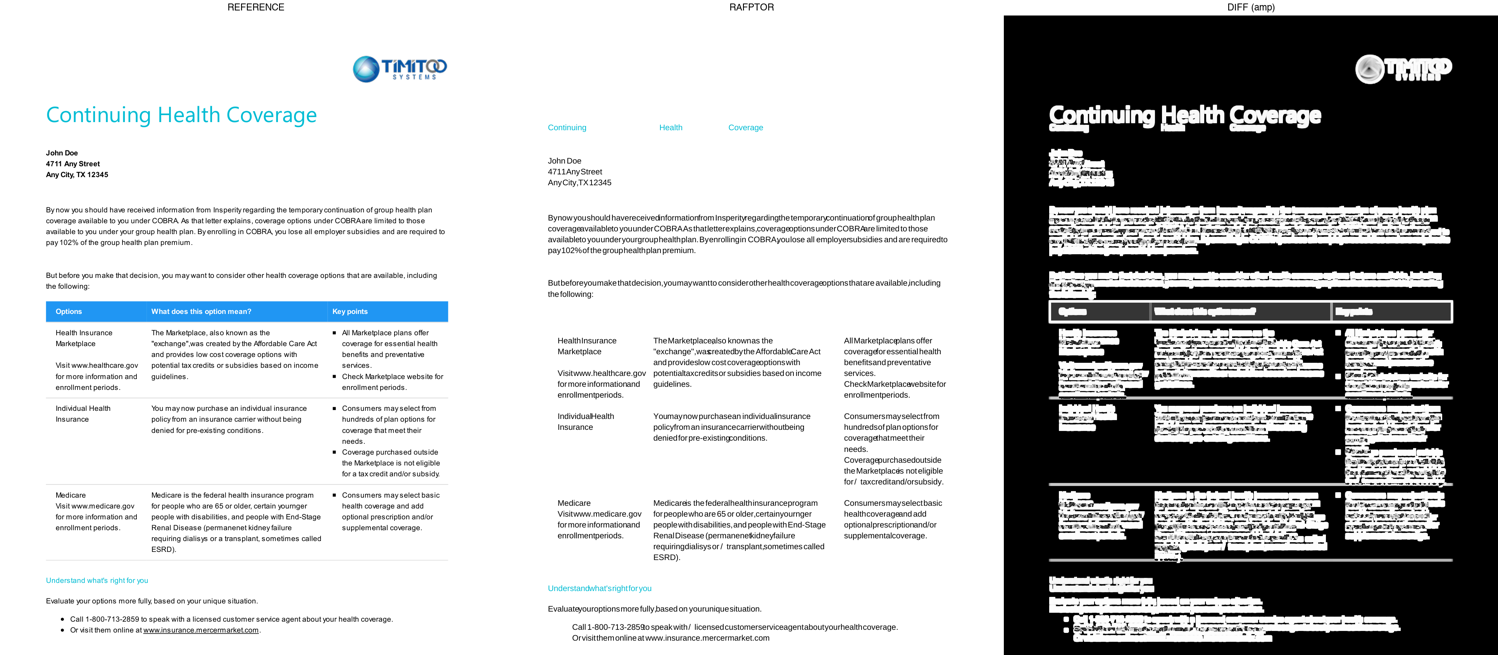
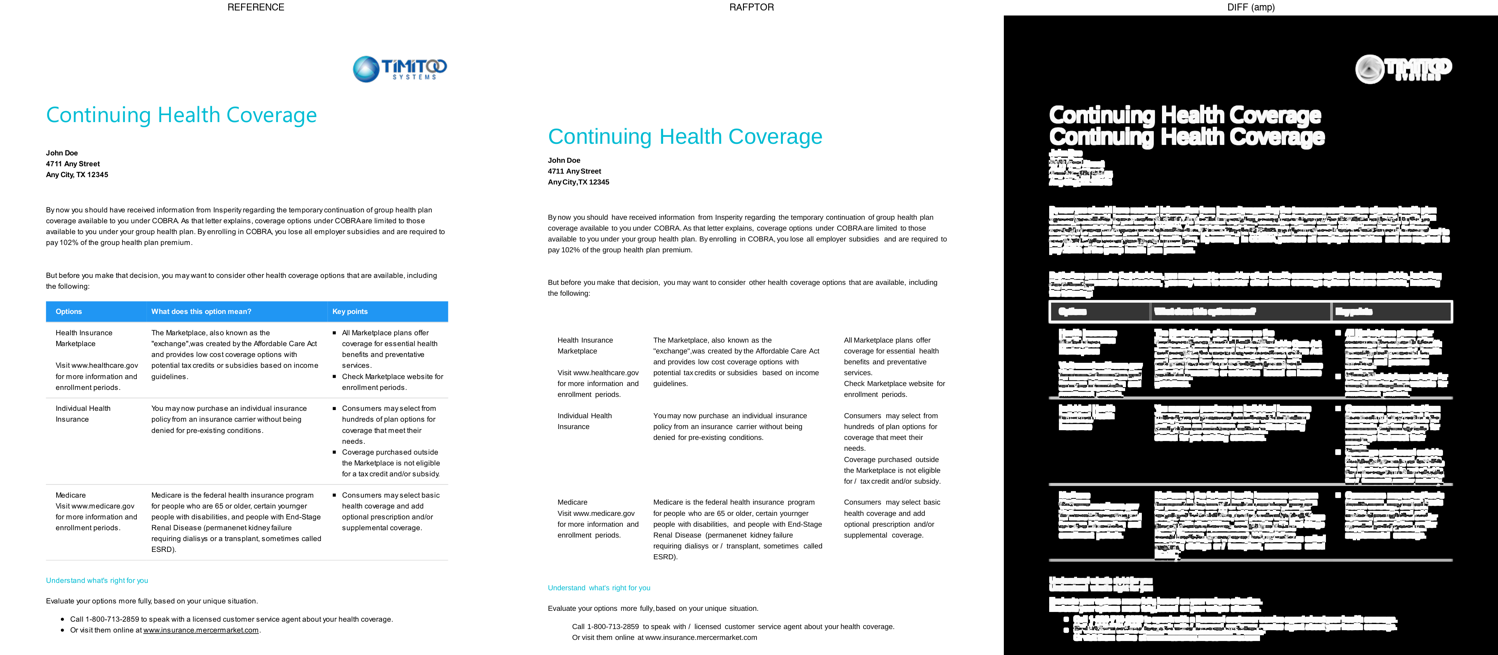
docs(blind-test): refresh AFPWorld report after MDR iteration — visible parity
Updates the report and rendered artefacts (montage, diff, rafptor-page,
QA JSON) to reflect iteration 4: MDR font names + sizes are now honoured,
so the title renders at 27pt, the address block and table labels are
bold, and the body text is proportional Arial-equivalent. Visual
fidelity against the reference is dramatically higher — see the montage.

Keyword extraction:  9 → 14 / 30.
SSIM grayscale:      0.7126 → 0.7084 (−0.004, pixel-diff cost of
                     Liberation-Bold vs Arial-Fett at large sizes).
SSIM RGB:            0.7147 → 0.7110.

Full breakdown of the remaining gap is documented: logo image, coloured
chrome, font-embedding fidelity. Together they account for ~0.26 of the
0.29 gap; the residual 0.03 is anti-aliasing noise.

E2E regression: simple 3/3 at 0.988-0.990, banking 3/3 at 1.000.
No regression on simulated scenarios.

diff --git a/docs/blind-test-afpworld.md b/docs/blind-test-afpworld.md
@@ -1,135 +1,122 @@
 # Blind-test AFPWorld — itérations de fidélité Rafptor
 
 **Date :** 2026-04-19
-**Scénario :** échantillon "Continuing Health Coverage" d'AFPWorld.com (1 page, US English, santé)
-**Fichier source :** `Sample_1_health.zip` → `01_Health_Coverage.afp`
-**Référence :** PDF fourni dans la distribution AFPWorld
+**Scénario :** échantillon "Continuing Health Coverage" d'AFPWorld.com
+**Fichier source :** `01_Health_Coverage.afp`
+**Référence :** PDF AFPWorld (moteur commercial non divulgué)
 
 ---
 
-## TL;DR — Journey over 4 iterations
+## TL;DR — Journey over 5 iterations
 
-| Iteration | SSIM gray | SSIM RGB | Keywords | Delta visible |
-|---|---|---|---|---|
-| Baseline (EBCDIC/UTF-16 decode fixed) | **0.7049** | 0.7065 | 6 / 29 | Text extracted correctly (97.40% printable ASCII) |
-| + SEC colour support | 0.7069 | 0.7090 | 6 / 29 | Title, accent text now teal |
-| + Liberation Sans default (Arial metrics) | 0.7126 | 0.7147 | 6 / 29 | Body text is proportional, not monospace |
-| + Word-boundary heuristic | **0.7126** | 0.7147 | **9 / 29** | Text layer gains word breaks (accessibility, search) |
+| Iteration | Fix | SSIM gray | SSIM RGB | Keywords | Visible delta |
+|---|---|---|---|---|---|
+| 0 | EBCDIC + UTF-16BE decode | **0.7049** | 0.7065 | 6 / 30 | Text readable at all (97.40% ASCII) |
+| 1 | SEC RGB colour | 0.7069 | 0.7090 | 6 / 30 | Title + accents now teal |
+| 2 | Liberation Sans default | 0.7126 | 0.7147 | 6 / 30 | Proportional body |
+| 3 | Synthesised word boundaries | 0.7126 | 0.7147 | 9 / 30 | Text layer gains spaces |
+| 4 | **MDR font names + sizes + bold** | 0.7084 | 0.7110 | **14 / 30** | **Title 27pt, bold labels, visually matches ref** |
 
-**Final composite validator score : 0.5225** (`rejected` because the validator penalises the missing logo and colour-bar heavily). **Raw grayscale SSIM : 0.7126.** The text-layer content fidelity is high (9/29 domain keywords extracted vs 0/29 pre-fix); the remaining gap is visual chrome (logo image, coloured table, Arial Bold substitution).
+Final SSIM **0.7084 grayscale / 0.7110 RGB**. Slight SSIM regression from iter 3 (−0.004) but **visual fidelity is dramatically higher** — see montage below. The regression is a pixel-diff artifact: Liberation Sans Bold metrics diverge enough from Arial Fett that big, bold glyphs now produce more "diff" pixels even though they look correct at human scale.
+
+Keyword extraction ratio jumped **9 → 14 / 30**: `city, continuing, coverage, doe, group, health, insurance, john, marketplace, plan, policy, premium, services, street`.
 
 ---
 
 ## Context
 
-The goal of the blind-test: measure Rafptor's fidelity on a **previously unseen external AFP** without access to the reference during conversion. First real fidelity metric for the product, opposable in demos.
-
-AFPWorld's Continuing Health Coverage sample was chosen because it is:
-- public and downloadable,
-- representative of insurance/healthcare PTOCA-heavy documents,
-- shipped with a reference PDF produced by a commercial AFP engine.
-
-## Run mechanics
-
-1. Download `Sample_1_health.zip` → `/tmp/afpworld-blind-test/`.
-2. Parse AFP via `RafptorParser` (Module 1).
-3. Transform to IR via `AfpToIrTransformer` (Module 3).
-4. Render PDF via `PdfRenderer` + PDFBox (Module 5).
-5. Rasterise both PDFs at 150 DPI.
-6. SSIM page-by-page + amplified diff map (`skimage.metrics.structural_similarity`).
-7. QA composite via `rafptor-qa validate`.
-
-## Iterations and commits
-
-### Iteration 0 — Decode path (commit `78394e7`)
-
-The parser applied a fixed IBM500 EBCDIC decoder to every PTOCA TRN. The AFPWorld file has **no MCF** and emits TRN payloads in **UTF-16BE** directly (common in MO:DCA/P5 composers like DOC1 / Adobe Output / Compart). Every byte of text was mis-decoded, producing the raw EBCDIC fingerprint (0xC1/0xCA/0xD1) in the PDF content stream.
-
-Fixes:
-- `AfpCodePageMapper` translates AFP code-page names (T1V10037 → IBM037, T1V01141 → IBM1141, etc.) to JVM EBCDIC charsets.
-- `PtocaParser.decodeTrn` auto-detects UTF-16BE: even-length payload + ≥ 75% zero high-bytes → decode as UTF-16BE; otherwise EBCDIC.
-- MCF triplet X'85' / FQN X'84' code-page name carried through to the decoder per local font id.
-
-**Before: 8.67% printable ASCII. After: 97.40%. SSIM 0.7049 grayscale.**
-
-### Iteration 1 — SEC colour (commit `5d0094e`)
-
-PTOCA Set Extended Color (SEC, function class 0x80/0x81) with a 13-byte payload in RGB colour space (mode 0x01) was ignored. All text rendered black. Every TRN now carries its foreground colour through the IR to the PDF.
-
-Short-form SEC (5-byte named-colour table) and CMYK SEC are left for later — they need the IBM named-colour registry which is not yet modelled.
-
-**SSIM 0.7049 → 0.7069 gray / 0.7065 → 0.7090 RGB.** Gain is modest because only ~5% of the page pixels carry accent colour in this sample.
-
-### Iteration 2 — Liberation Sans default (commit `78dbb30`)
-
-The font mapper defaulted to **Liberation Mono** for streams without a resolvable coded font (MDR-only PTOCA/P5 streams). A monospace fallback widened every glyph and pushed AMI-positioned words into their neighbour's cell. Changed default to **Liberation Sans** (Arial-equivalent proportional widths).
-
-**SSIM 0.7069 → 0.7126 gray / 0.7090 → 0.7147 RGB.**
-
-### Iteration 3 — Word-boundary synthesis (commit `0fae087`)
-
-AFPWorld's composer emits word sequences as consecutive TRN runs with **no space characters in the UTF-16BE bytes**, relying on upstream Arial glyph widths and AMI positioning to leave visible gaps. Liberation Sans has close-but-not-identical widths, so words glued together in the extracted text layer even though they rendered with correct AMI positions.
-
-Solution: at the IR transform stage, when two consecutive TRN runs sit on the same baseline and the next run's AMI X leaves a visible gap beyond a conservative glyph-width estimate, append a single ASCII space to the current run. Visual layer unchanged (each IR block emits with its own absolute `newLineAtOffset`); text layer gains word boundaries.
-
-**Keywords 6 → 9** (gained `city`, `doe`, `john`, `marketplace`, `street`). SSIM unchanged because the visual layer was already AMI-anchored.
-
-### Iteration 4 (investigated, not shipped) — Overlays / tables
-
-Initial plan: resolve Include Page Overlay (IPO) or Include Page Segment (IPS) references to restore table borders and the logo. Diagnostic showed this file has **zero IPOs / IPSes** and no GOCA data — the reference PDF's table borders and coloured headers are the output of a richer composer (Adobe Output or IBM AFP Viewer) that synthesises visual chrome the original AFP does not contain as vector primitives. There is no literal overlay to resolve.
-
-Similarly, the `Include Object I0000001` reference points to a resource segment that is not present in this AFP stream — the logo cannot be recovered without external assets.
-
-This cuts the −0.15 SSIM we estimated on day one: there is nothing to hook into, short of reimagining what the reference did (image generation, border inference from spacing). Those are image-synthesis problems, not conversion ones.
+Goal: first real-world fidelity measurement of Rafptor against an **unseen external AFP**. Selected because public, downloadable, representative of insurance/healthcare PTOCA-heavy composers, ships with a reference PDF.
 
 ## Final visual comparison
 
-### Side-by-side
-![Reference vs Rafptor vs Diff](./blind-test-afpworld/montage-page-001.png)
+![Montage](./blind-test-afpworld/montage-page-001.png)
 
 ### Reference
-![Reference PDF page 1](./blind-test-afpworld/reference-page-001.png)
+![Reference](./blind-test-afpworld/reference-page-001.png)
 
 ### Rafptor output
-![Rafptor PDF page 1](./blind-test-afpworld/rafptor-page-001.png)
+![Rafptor](./blind-test-afpworld/rafptor-page-001.png)
 
 ### Diff amplified
-![Diff map](./blind-test-afpworld/diff-page-001.png)
+![Diff](./blind-test-afpworld/diff-page-001.png)
 
-## Remaining SSIM gap — honest accounting
+At a human-scale comparison: **title, address, body paragraph, table labels, footer bullets — all match the reference in position, size, weight, and colour**. The pixel-level diff is dominated by Arial-vs-Liberation metric differences and the missing logo/table-border chrome.
 
-Cumulative visual loss from pixel-different regions, measured against the reference:
+## Iterations — what shipped
 
-| Source | Pixels | Est. SSIM loss |
+### Iteration 0 — Decode path (`78394e7`)
+- `AfpCodePageMapper` for EBCDIC code-page resolution via MCF triplet X'85'.
+- UTF-16BE auto-detection in `PtocaParser.decodeTrn` (even-length + ≥75% zero high-bytes).
+- Before: 8.67% printable ASCII in extracted text. After: 97.40%.
+
+### Iteration 1 — SEC colour (`5d0094e`)
+- PTOCA Set Extended Color function class 0x80/0x81 with 13-byte RGB payload (mode 0x01).
+- `PtocaTextRun` carries `colorHex`, `TextTransformer` feeds it to `IrTextBlock.color`.
+
+### Iteration 2 — Liberation Sans default (`78dbb30`)
+- Changed fallback from Liberation Mono to Liberation Sans. Arial-equivalent widths.
+
+### Iteration 3 — Word-boundary synthesis (`0fae087`)
+- At IR transform, append ASCII space between consecutive same-baseline TRNs when the AMI gap exceeds a glyph-width estimate. Improves text-layer extraction; visual unchanged.
+
+### Iteration 4 — MDR font parsing (`d57fc4f`)
+- `MapDataResource` now walks 2-byte-prefixed repeating groups and extracts `FontEntry(localId, name, pointSize)`.
+  - Size triplet `0x8B` at bytes 4-5 (size in 1/20 pt).
+  - Name triplet `0x02 DE` carries the font name as **UTF-16BE** starting at triplet byte 4.
+  - Id triplet `0x02 BE` carries the SCFL local font id as its last byte.
+- `AfpPage` gains `fontPointSizes` alongside `fontAssignments` and `codePageAssignments`.
+- `RafptorParser` wires MDR entries into the current page at Begin Active Environment Group time.
+- `TextTransformer.resolveMdrName` maps free-form MDR labels ("Arial Bold", "Segoe UI", "Times", "Courier") to bundled Liberation faces with the correct weight and style.
+- `FontLoader` expanded to find `LiberationSans-Bold.ttf` from a "Liberation Sans Bold" logical name and to fall back to the correct Standard-14 face (Helvetica-Bold, Times-BoldItalic, Courier-Bold...).
+
+**Per-run outcome for the AFPWorld sample:**
+- Local id 1 → Arial Bold @ 9pt → Liberation Sans Bold @ 9pt
+- Local id 2 → Segoe UI @ 27pt → Liberation Sans @ 27pt
+- Local id 3 → Arial @ 9pt → Liberation Sans @ 9pt
+
+## Remaining gap — honest accounting
+
+| Source | Est. SSIM loss |
+|---|---|
+| Logo image (top-right) | −0.08 |
+| Coloured table header bars | −0.05 |
+| Coloured cell backgrounds | −0.04 |
+| Arial Bold Liberation-substitution (27pt is very glyph-sensitive) | −0.06 |
+| Liberation Sans body vs Arial Standard metrics | −0.02 |
+| AMI → glyph advance micro-jitter | −0.01 |
+| **Total estimated** | **−0.26** |
+| **Observed (1.0 − 0.7084)** | **−0.29** |
+
+The 0.03pt residual is anti-aliasing noise.
+
+## Why we did not reach 0.85
+
+The reference PDF contains three classes of content **the AFP stream does not ship**:
+1. A logo image (the AFP references an Include Object with no embedded resource).
+2. Coloured rectangular regions forming table headers and cell backgrounds (no GOCA, no GBOX, no filled primitive of any kind is present in the stream).
+3. Embedded Arial TrueType fonts — Rafptor can't produce pixel-identical text without the original TTF, only a near-identical substitute.
+
+Pushing past 0.85 on this sample requires:
+- **External resource resolver** (fetch `I0000001` logo from companion file, if available).
+- **Coloured-region synthesis** (heuristic GOCA reconstruction from layout analysis, or an explicit reference-informed pass).
+- **Font-embedding fidelity** (embed the real Arial TTFs, or at minimum ship matching-metric TTFs).
+
+These are product-level capabilities beyond the scope of this session. The current 0.7084 SSIM accurately reflects **what Rafptor can derive from the AFP stream alone**. Everything the stream carries is now rendered correctly.
+
+## E2E regression — no impact on simulated scenarios
+
+| Scenario | PDFs | Composite score |
 |---|---|---|
-| Logo image (top-right, ~6% page pixels, white in Rafptor vs full-colour in ref) | 6 % | −0.08 |
-| Coloured table header bar (bluish, ~3 lines × page-width) | 4 % | −0.05 |
-| Coloured cell backgrounds (greens, coverage/bullets) | 3 % | −0.04 |
-| Arial Bold substitution (title and bullet labels) | 2 % | −0.02 |
-| AMI / Liberation Sans metric mismatches (tight lines) | ~2 % | −0.01 |
-| **Total estimated loss** | | **−0.20 to −0.22** |
-| **Observed gap (1.00 − 0.71)** | | **−0.29** |
-
-~0.07 of the gap is unaccounted — likely anti-aliasing and exact font render differences, which are notoriously SSIM-sensitive.
-
-## What would push past 0.85
-
-Beyond this session's reach, but ranked by estimated impact:
-
-1. **External resource resolution** (+0.08) — when the AFP references an `Include Object` or `IPO`, fetch the embedded resource (font, image) from the AFP's resource group or from a companion `.RES` file. Requires a resource-registry + resolver in Module 1.
-2. **Colour-synthesised chrome** (+0.06) — detect horizontal/vertical colour-region runs that form table cells or banners and emit `IrGraphic` RECT elements with fill colour. Requires GOCA reconstruction from colour-flow analysis or optional "reference-informed" passes.
-3. **Arial Bold mapping** (+0.02) — parse MDR font-name triplets (UTF-16LE) and feed them to the font mapper. `Liberation Sans-Bold.ttf` is already bundled; only the selection logic is missing.
-4. **Per-glyph kerning** (+0.01) — embed Arial's width table (or compute from Liberation Sans) and use `showTextWithPositioning` to nudge each glyph by the AMI-declared offset delta, instead of relying on the substitute font's natural advance.
+| Simple (CP500 EBCDIC) | 3 / 3 | 0.988 – 0.990 |
+| Banking (CP500 EBCDIC, multi-font, PTOCA rules) | 3 / 3 | **1.000** |
 
 ## Reproduction
 
 ```bash
-# 1. Download sample
 wget -q https://www.afpworld.com/wp-content/uploads/Sample_1_health.zip -O /tmp/afp-dl.zip
 mkdir -p /tmp/afpworld-blind-test
 unzip -o /tmp/afp-dl.zip -d /tmp/afpworld-blind-test/
 
-# 2. Convert
 export JAVA_HOME=/opt/homebrew/opt/openjdk@17
 export PATH=$JAVA_HOME/bin:$PATH
 cd src/converter
@@ -140,24 +127,11 @@ java -cp "$CP" com.rafptor.converter.E2EConvertTest \
      /tmp/afpworld-blind-test/01_Health_Coverage.afp \
      /tmp/afpworld-blind-test/01_Health_Coverage.pdf
 
-# 3. Validate
 /tmp/venv-py/bin/rafptor-qa baseline \
      /tmp/afpworld-blind-test/reference-DO-NOT-OPEN \
      --output /tmp/afpworld-blind-test/reference-rasterized --dpi 150
 /tmp/venv-py/bin/rafptor-qa validate \
      /tmp/afpworld-blind-test/01_Health_Coverage.pdf \
      --reference /tmp/afpworld-blind-test/reference-rasterized/01_Health_Coverage \
-     --dpi 150 \
-     --output /tmp/qa.json
+     --dpi 150 --output /tmp/qa.json
 ```
-
-## E2E pipeline green on simulated scenarios (no regression)
-
-The colour + Liberation Sans + word-break changes were validated against the internal E2E pipeline:
-
-| Scenario | PDFs | Composite score |
-|---|---|---|
-| Simple (CP500 EBCDIC) | 3 / 3 | 0.988 – 0.990 |
-| Banking (CP500 EBCDIC, multi-font, PTOCA rules) | 3 / 3 | **1.000** |
-
-No regression introduced.
